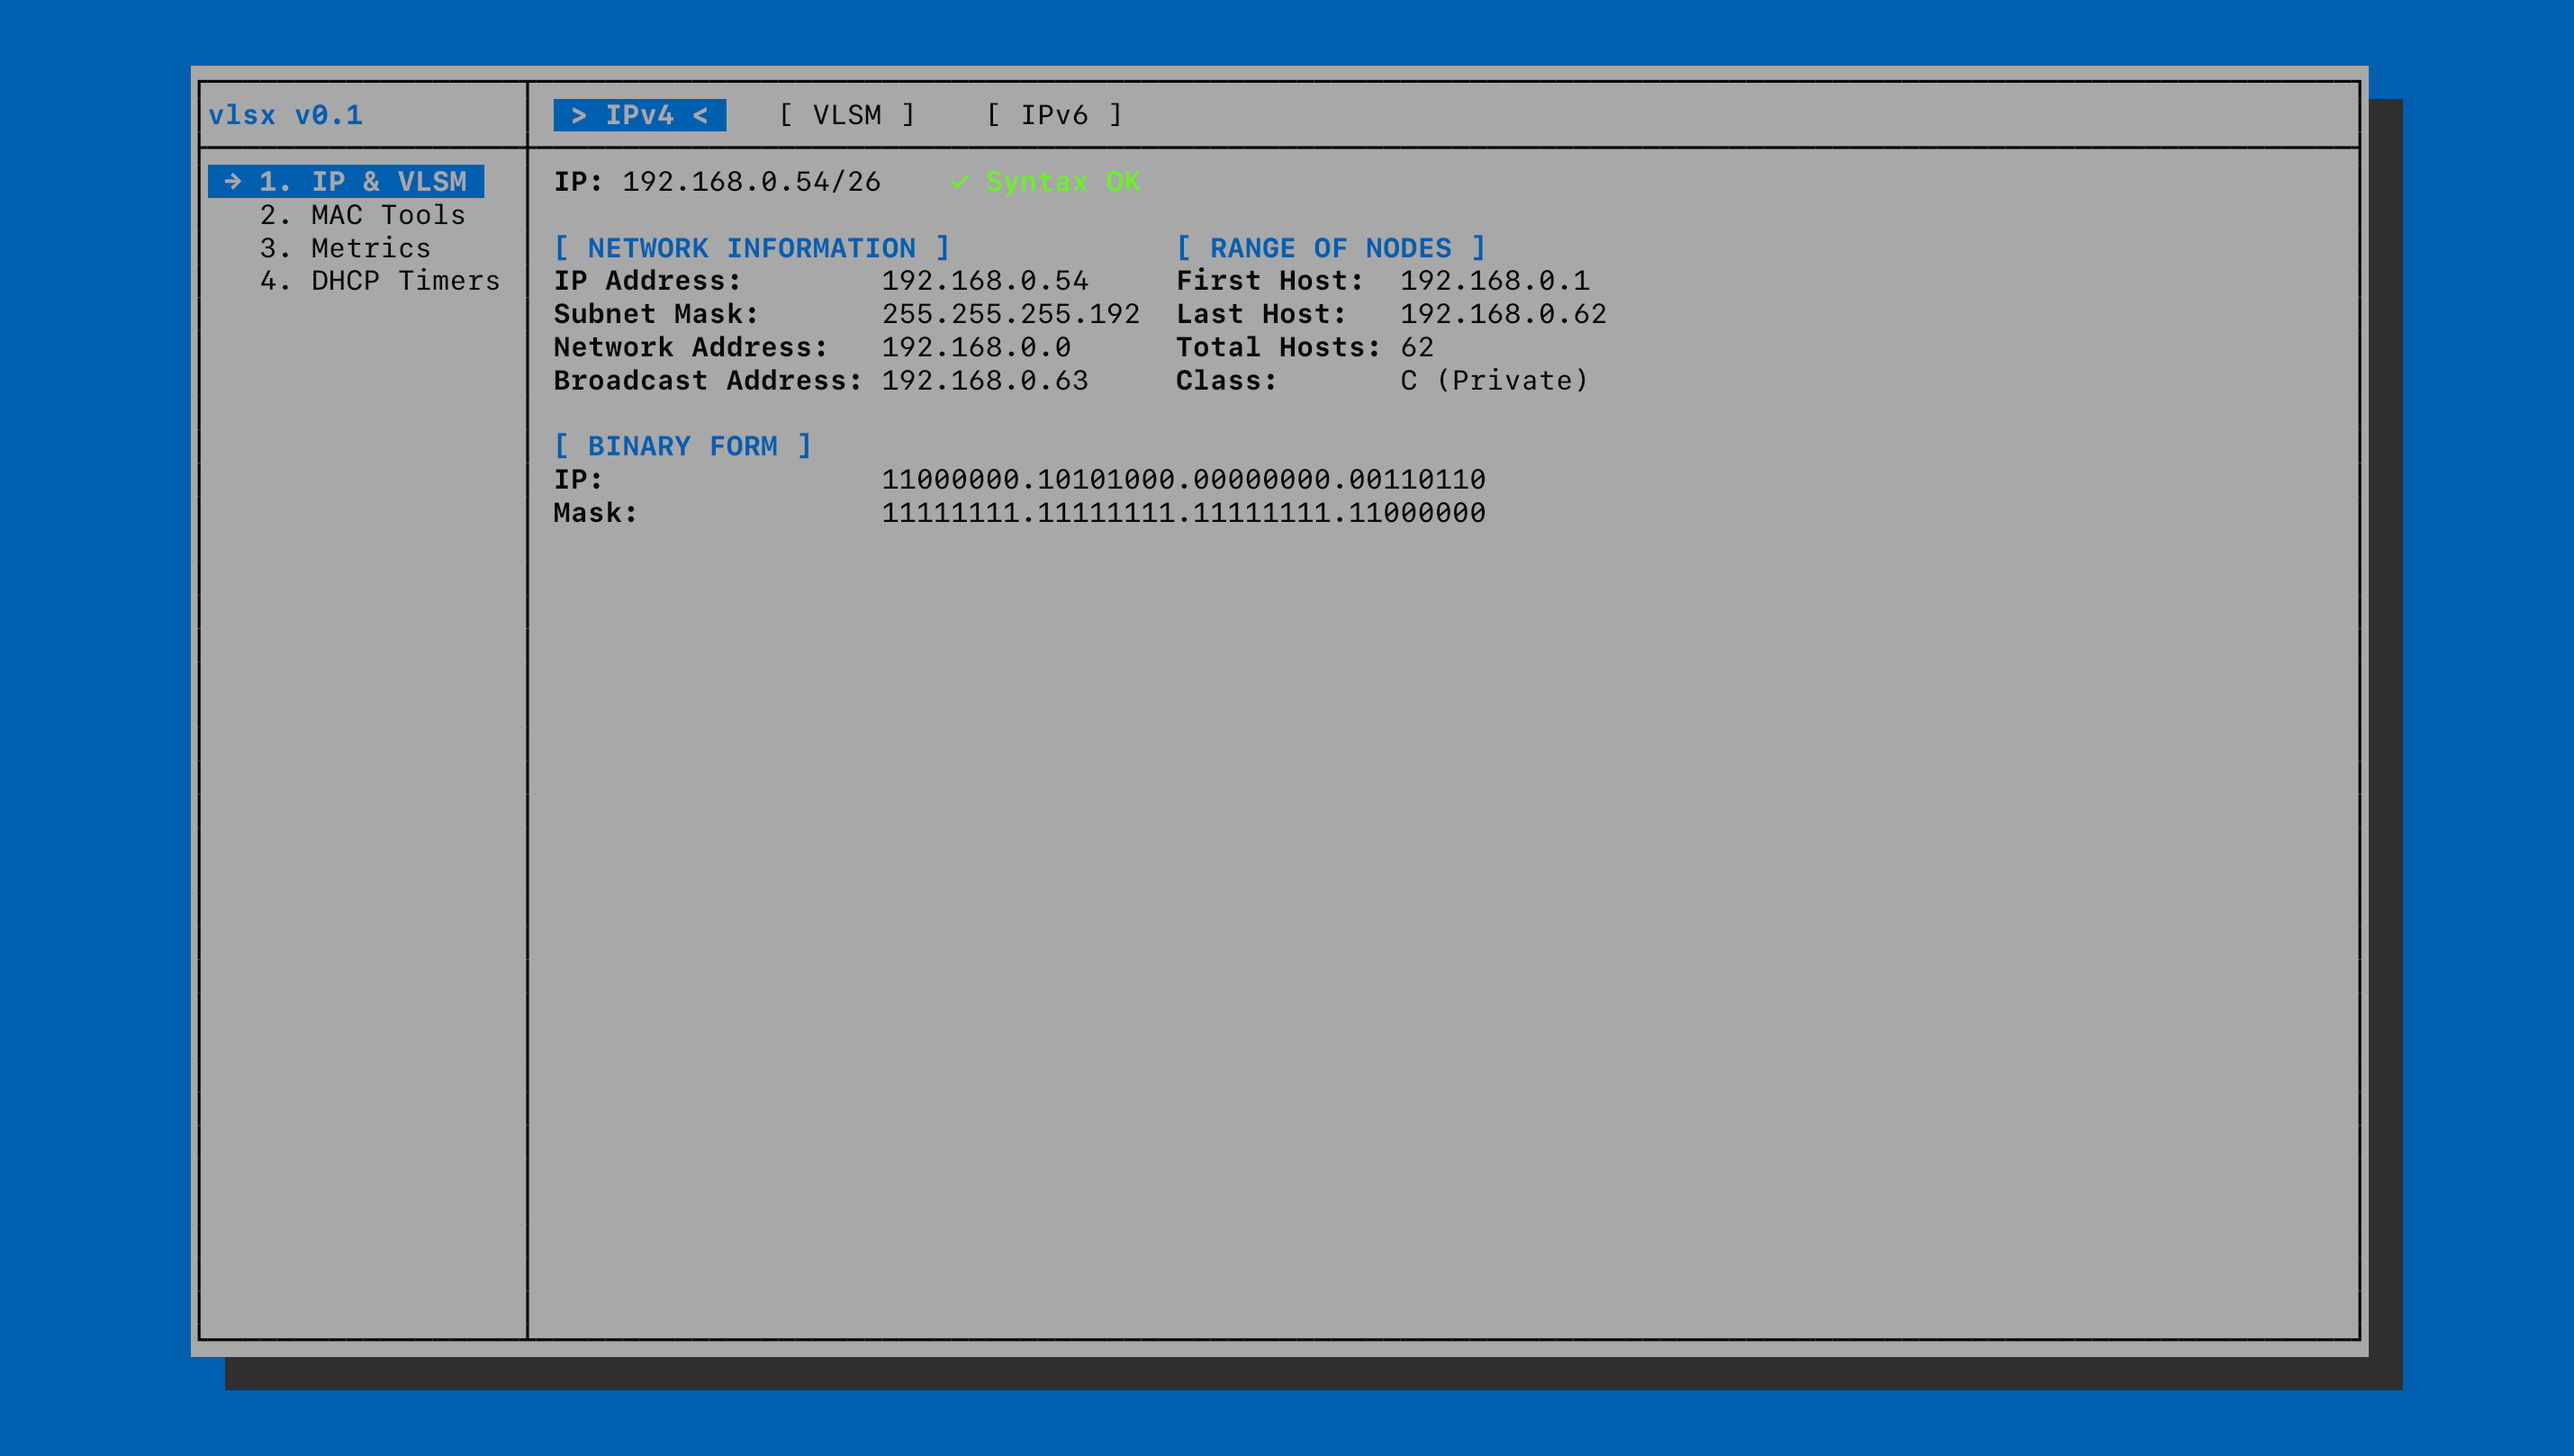
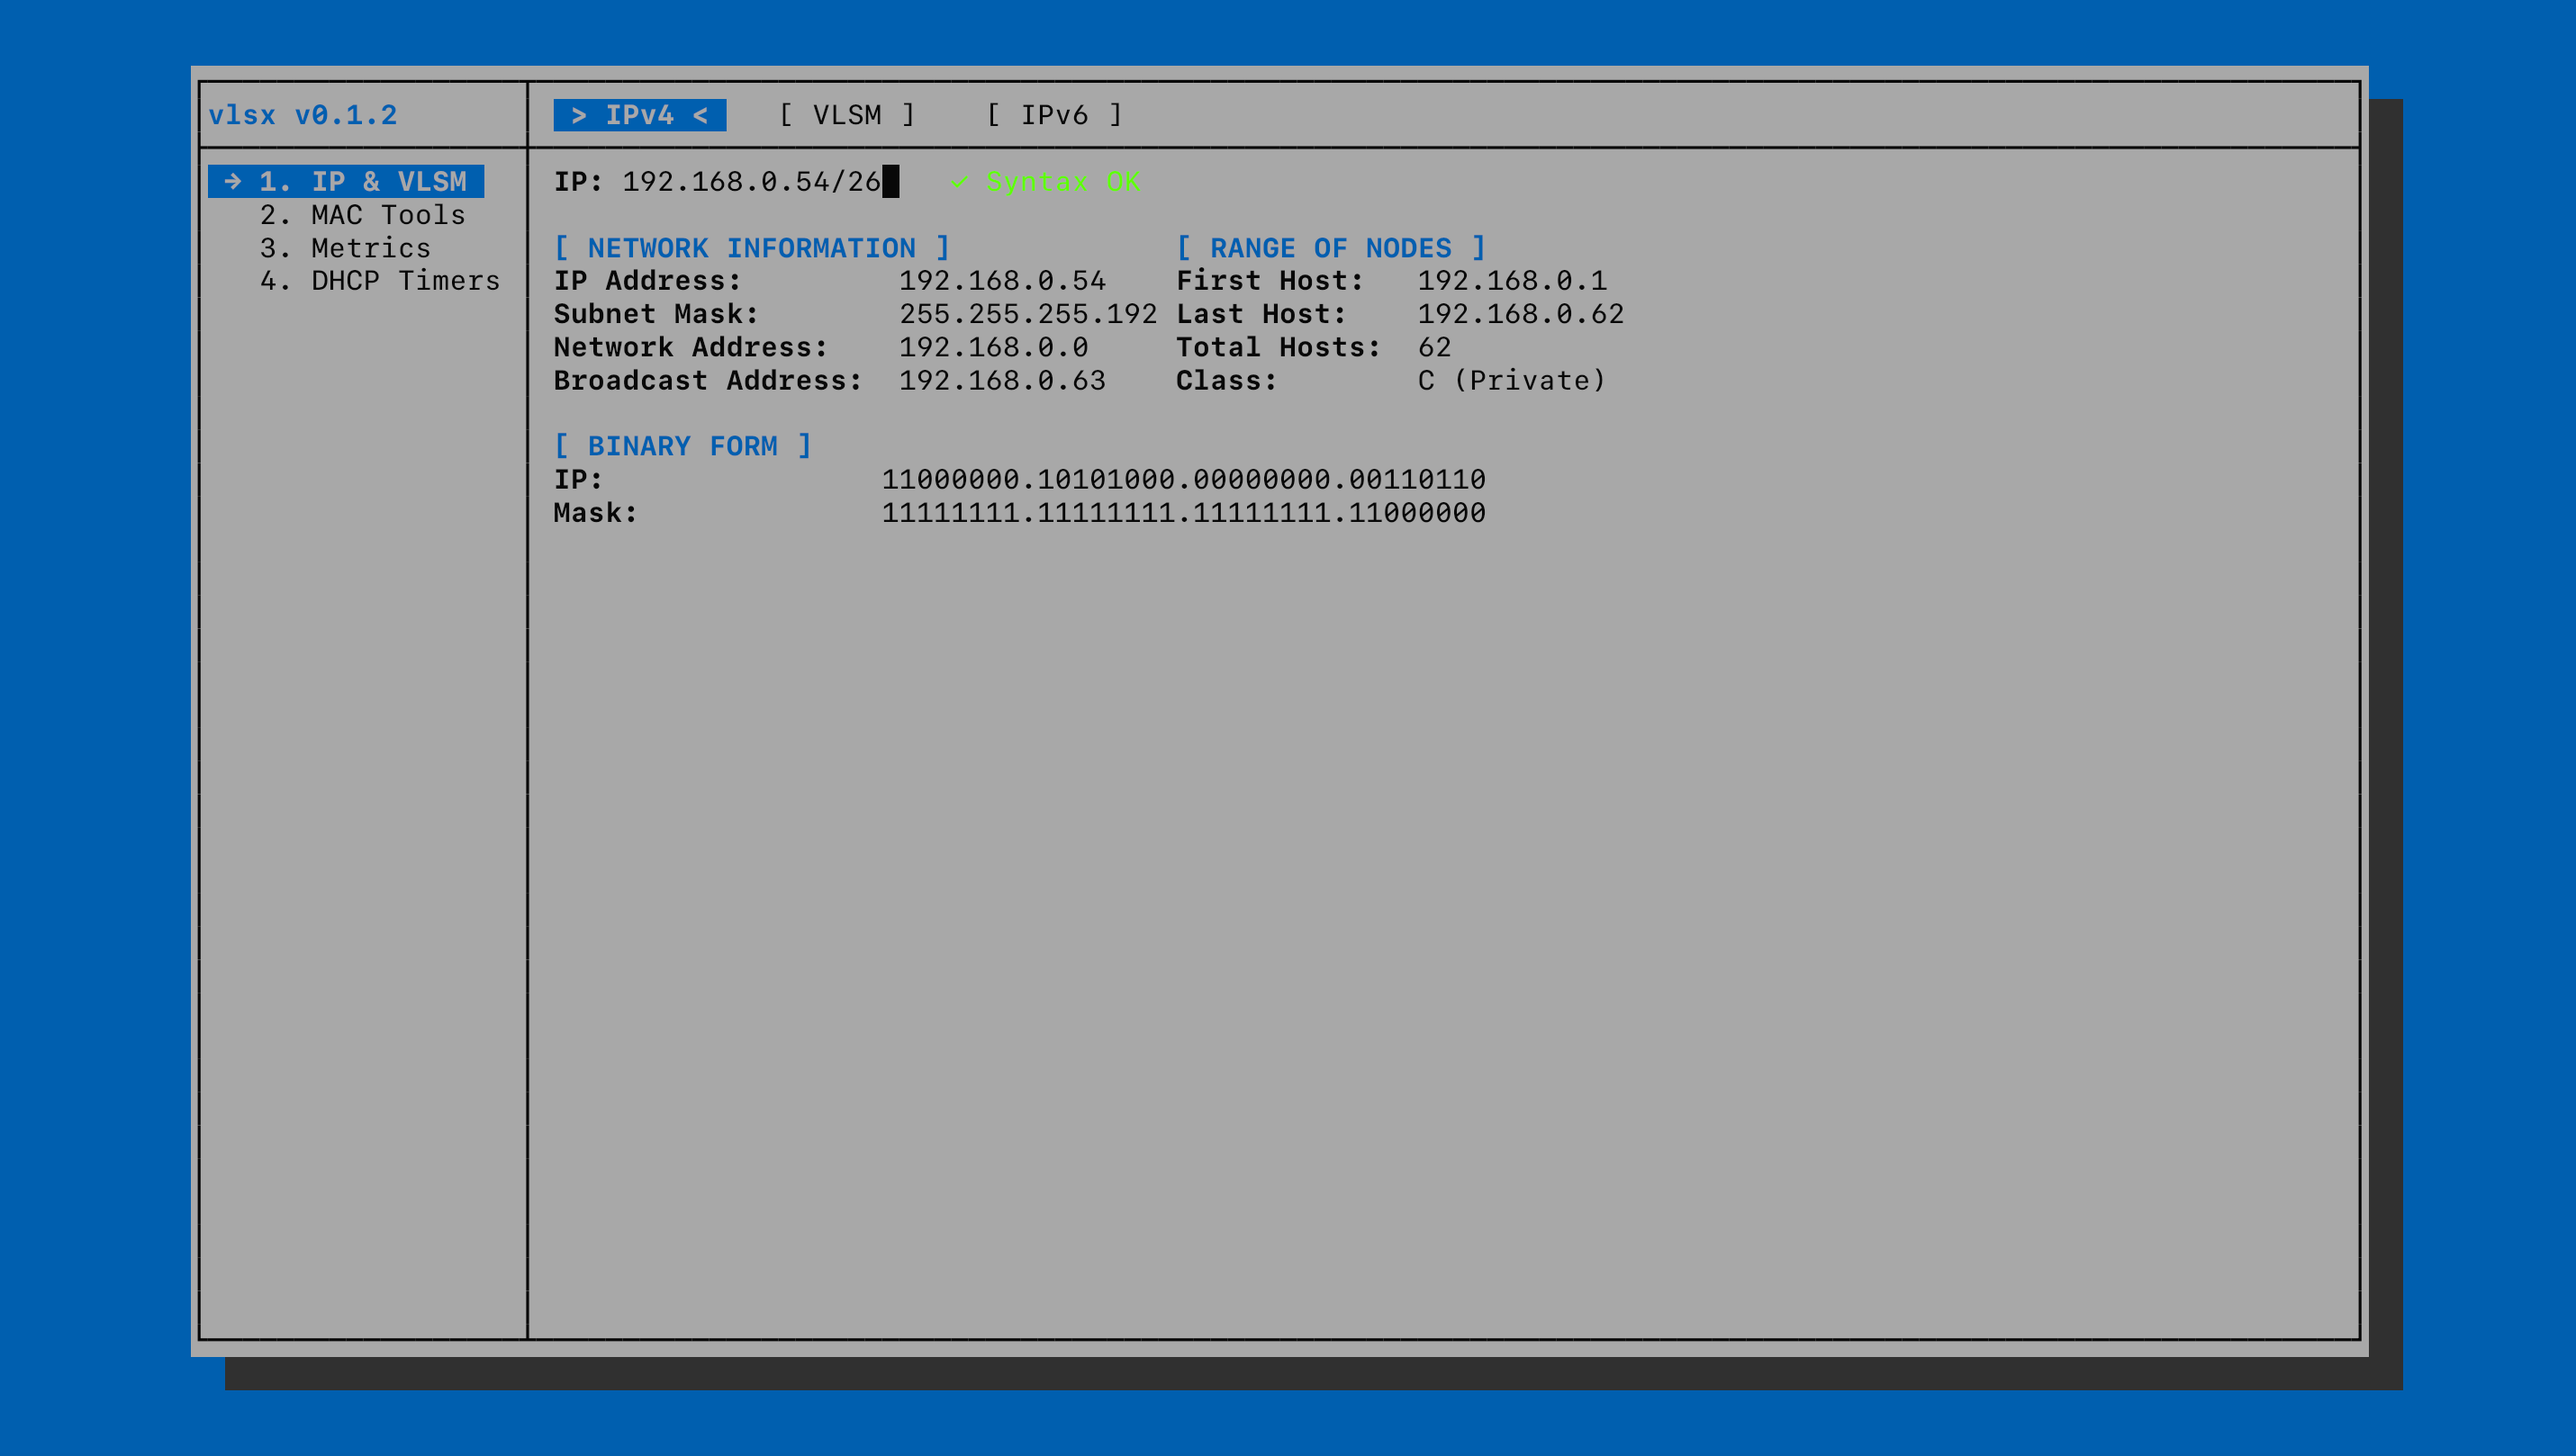
docs(readme): document repository-based installation channels
Add apt, dnf, pacman, and Termux repository setup steps and refresh the demo screenshot.

diff --git a/README.md b/README.md
@@ -13,6 +13,9 @@
   <a href="https://github.com/b1sted/vlsx/releases/latest">
     <img src="https://img.shields.io/github/v/release/b1sted/vlsx?style=flat-square&label=Release" alt="Latest Release">
   </a>
+  <a href="https://packages.basted.dev/#repositories">
+    <img src="https://img.shields.io/badge/Repo-basted_packages-3B82F6?style=flat-square" alt="basted packages">
+  </a>
   <a href="https://github.com/b1sted/homebrew-tap">
     <img src="https://img.shields.io/badge/Homebrew-b1sted%2Ftap-FBB040?style=flat-square&logo=homebrew&logoColor=white" alt="Homebrew Tap">
   </a>
@@ -41,7 +44,7 @@ no runtime dependencies beyond a POSIX terminal.
 <p align="center">
   <img src=".github/assets/demo.png" alt="vlsx demo" width="600"/>
   <br>
-  <em>vlsx v0.1</em>
+  <em>vlsx v0.1.2</em>
 </p>
 <br>
 
@@ -71,6 +74,11 @@ no runtime dependencies beyond a POSIX terminal.
 
 ## Installation
 
+The easiest way to install and keep `vlsx` up to date is via the
+[basted packages repositories](https://packages.basted.dev/#repositories) or Homebrew.
+Standalone packages and archives are also attached to every
+[GitHub Release](https://github.com/b1sted/vlsx/releases).
+
 ### Homebrew (macOS & Linux)
 
 ```bash
@@ -80,11 +88,65 @@ brew install b1sted/tap/vlsx
 The tap tracks the latest stable release and builds it from source for the
 current platform.
 
-### Linux packages
+### Linux repositories (`apt`, `dnf`, `pacman`)
 
-Native packages for `amd64`, `arm64`, `armv7`, and `riscv64` are attached to
-every [GitHub Release](https://github.com/b1sted/vlsx/releases). Download the
-package for your distribution and install it locally:
+All Linux repositories carry native builds for `amd64`, `arm64`, `armv7`, and
+`riscv64`, signed with the repository key (`packages.basted.dev/gpg.key`).
+
+#### Debian / Ubuntu (`apt`)
+
+Supports Debian 12+, Ubuntu 22.04+, and compatible derivatives:
+
+```bash
+curl -fsSL https://packages.basted.dev/gpg.key \
+  | sudo gpg --yes --dearmor -o /usr/share/keyrings/basted.gpg
+
+echo "deb [signed-by=/usr/share/keyrings/basted.gpg] \
+https://packages.basted.dev/apt stable main" \
+  | sudo tee /etc/apt/sources.list.d/basted.list
+
+sudo apt update
+sudo apt install vlsx
+```
+
+#### Fedora / RHEL (`dnf`)
+
+Supports Fedora, RHEL 9+, and compatible rebuilds:
+
+```bash
+sudo tee /etc/yum.repos.d/basted.repo >/dev/null <<'EOF'
+[basted]
+name=basted packages
+baseurl=https://packages.basted.dev/rpm
+enabled=1
+gpgcheck=1
+repo_gpgcheck=1
+gpgkey=https://packages.basted.dev/gpg.key
+EOF
+
+sudo dnf install vlsx
+```
+
+#### Arch Linux (`pacman`)
+
+```bash
+curl -fsSL https://packages.basted.dev/gpg.key \
+  | sudo pacman-key --add -
+sudo pacman-key --lsign-key 3DFD8F2C2444ED194636CED66F19EE24A4124218
+
+printf '\n[basted]\nSigLevel = Required DatabaseOptional\n%s\n' \
+  'Server = https://packages.basted.dev/arch/$arch' \
+  | sudo tee -a /etc/pacman.conf >/dev/null
+
+sudo pacman -Syu
+sudo pacman -S vlsx
+```
+
+<details>
+<summary>Manual installation from GitHub Release packages (.deb / .rpm / .pkg.tar.zst)</summary>
+
+Download the package for your distribution and architecture from the
+[GitHub Releases](https://github.com/b1sted/vlsx/releases) page and install it locally:
 
 ```bash
 # Debian / Ubuntu
@@ -97,15 +159,36 @@ sudo dnf install ./vlsx-0.1.2.*.rpm
 sudo pacman -U ./vlsx-0.1.2-*.pkg.tar.zst
 ```
 
+</details>
+
 ### Android (Termux)
 
-The release ships native Termux `.deb` packages for `aarch64`, `arm`, and
-`x86_64`. They use a `vlsx-termux_` filename prefix so they are not confused
-with the native Linux packages:
+Native Termux builds are available for `aarch64`, `arm`, and `x86_64` via the
+Termux repository:
+
+```bash
+pkg install gnupg
+mkdir -p "$PREFIX/etc/apt/trusted.gpg.d" "$PREFIX/etc/apt/sources.list.d"
+curl -fsSL https://packages.basted.dev/gpg.key \
+  | gpg --yes --dearmor -o "$PREFIX/etc/apt/trusted.gpg.d/basted.gpg"
+echo "deb https://packages.basted.dev/termux stable main" \
+  > "$PREFIX/etc/apt/sources.list.d/basted.list"
+
+pkg update
+pkg install vlsx
+```
+
+<details>
+<summary>Manual installation from GitHub Release (.deb)</summary>
+
+Termux release files use a `vlsx-termux_` filename prefix so they are not
+confused with the native Linux packages, while the installed package name is `vlsx`:
 
 ```bash
 pkg install ./vlsx-termux_0.1.2_*.deb
 ```
+
+</details>
 
 ### Prebuilt binaries (`.tar.gz`)
 
@@ -129,8 +212,11 @@ sudo install -m 0755 vlsx /usr/local/bin/vlsx
 
 ### Verification
 
-Every release publishes checksums, a GPG signature, and build provenance.
-Verify the downloaded files with any of the following methods:
+Release assets use a dedicated release signing subkey
+([github.com/b1sted.gpg](https://github.com/b1sted.gpg)), while package
+repositories use the package signing subkey
+([packages.basted.dev/gpg.key](https://packages.basted.dev/gpg.key)).
+Verify downloaded GitHub Release archives with any of the following methods:
 
 ```bash
 # SHA256 checksums
